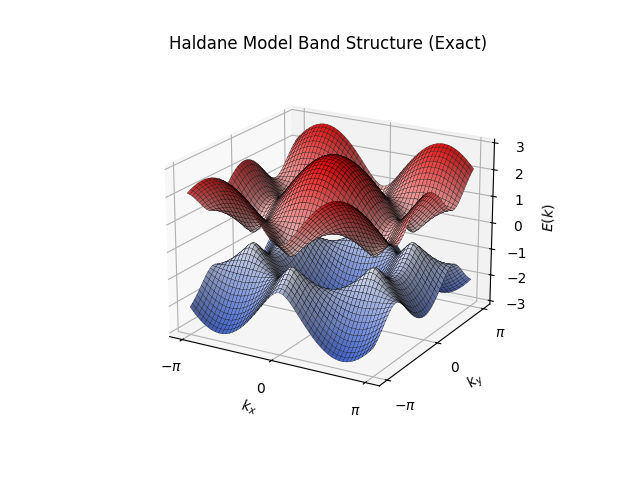
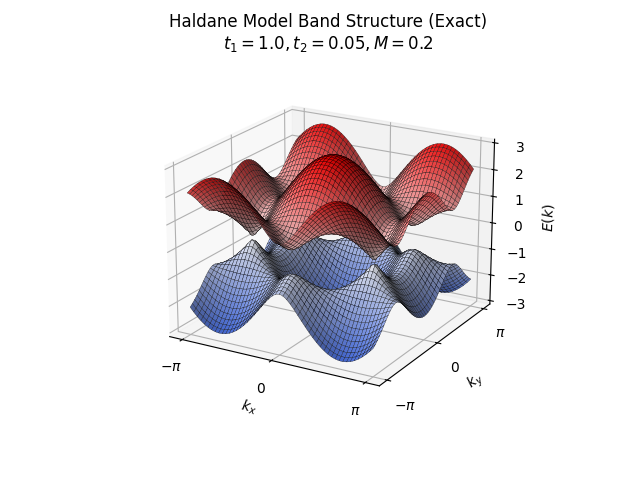
Added better plots with a NNN hopping

Changed region(s): [[0.3438, 0.3438, 0.7188, 0.6875], [0.25, 0.0312, 0.7812, 0.125], [0.4688, 0.3125, 0.5, 0.3438]]

diff --git a/scripts/haldane-model/band_structure_vqe_simulated_noisy.py b/scripts/haldane-model/band_structure_vqe_simulated_noisy.py
@@ -5,10 +5,10 @@ from matplotlib.colors import TwoSlopeNorm, LinearSegmentedColormap
 import os
 from qiskit_ibm_runtime.fake_provider import FakeSherbrooke
 
-t1, t2, M = 1.0, 0.0, 0.2
+t1, t2, M = 1.0, 0.05, 0.2
 a_vecs = [np.array([0.0, -1.0]), np.array([np.sqrt(3)/2, 0.5]), np.array([-np.sqrt(3)/2, 0.5])]
 b_vecs = [a_vecs[1]-a_vecs[2], a_vecs[2]-a_vecs[0], a_vecs[0]-a_vecs[1]]
-samples = 10
+samples = 25
 backend = FakeSherbrooke()
 
 data = band_structure_vqe(t1, t2, M, a_vecs, b_vecs, samples, backend)
@@ -38,7 +38,7 @@ ax.set_yticklabels([r'$-\pi$', r'$0$', r'$\pi$'])
 ax.set_xlabel('$k_x$')
 ax.set_ylabel('$k_y$')
 ax.set_zlabel('$E(k)$')
-ax.set_title("Haldane Model Band Structure (VQE, Qiskit Aer Noisy, $"+str(samples)+"^2$ samples)")
+ax.set_title("Haldane Model Band Structure (VQE, Qiskit Aer Noisy, $"+str(samples)+"^2$ samples)\n$t_1="+str(t1)+", t_2="+str(t2)+", M="+str(M)+"$")
 ax.view_init(elev=20)
 
 file_path = os.path.join(os.getcwd(), "..", "..", "plots/haldane-model/band-structure/simulated-noisy-"+str(samples)+"-samples-3d.png")
@@ -58,7 +58,7 @@ ax[1].set_title("Lower Band: $E_-(k)$")
 ax[1].set_xlabel("$k_x$")
 ax[1].set_ylabel("$k_y$")
 
-fig.suptitle("Haldane Model Band Structure (VQE, Qiskit Aer Noisy, $"+str(samples)+"^2$ samples)", fontsize=16)
+fig.suptitle("Haldane Model Band Structure (VQE, Qiskit Aer Noisy, $"+str(samples)+"^2$ samples)\n$t_1="+str(t1)+", t_2="+str(t2)+", M="+str(M)+"$", fontsize=16)
 
 plt.tight_layout()
 file_path = os.path.join(os.getcwd(), "..", "..", "plots/haldane-model/band-structure/simulated-noisy-"+str(samples)+"-samples-heatmap.png")

diff --git a/scripts/haldane-model/band_structure_vqe_simulated_ideal.py b/scripts/haldane-model/band_structure_vqe_simulated_ideal.py
@@ -4,10 +4,10 @@ import matplotlib.pyplot as plt
 from matplotlib.colors import TwoSlopeNorm, LinearSegmentedColormap
 import os
 
-t1, t2, M = 1.0, 0.0, 0.2
+t1, t2, M = 1.0, 0.05, 0.2
 a_vecs = [np.array([0.0, -1.0]), np.array([np.sqrt(3)/2, 0.5]), np.array([-np.sqrt(3)/2, 0.5])]
 b_vecs = [a_vecs[1]-a_vecs[2], a_vecs[2]-a_vecs[0], a_vecs[0]-a_vecs[1]]
-samples = 10
+samples = 100
 
 data = band_structure_vqe(t1, t2, M, a_vecs, b_vecs, samples)
 
@@ -36,7 +36,7 @@ ax.set_yticklabels([r'$-\pi$', r'$0$', r'$\pi$'])
 ax.set_xlabel('$k_x$')
 ax.set_ylabel('$k_y$')
 ax.set_zlabel('$E(k)$')
-ax.set_title("Haldane Model Band Structure (VQE, Qiskit Aer Ideal, $"+str(samples)+"^2$ samples)")
+ax.set_title("Haldane Model Band Structure (VQE, Qiskit Aer Ideal, $"+str(samples)+"^2$ samples)\n$t_1="+str(t1)+", t_2="+str(t2)+", M="+str(M)+"$")
 ax.view_init(elev=20)
 
 file_path = os.path.join(os.getcwd(), "..", "..", "plots/haldane-model/band-structure/simulated-ideal-"+str(samples)+"-samples-3d.png")
@@ -56,7 +56,7 @@ ax[1].set_title("Lower Band: $E_-(k)$")
 ax[1].set_xlabel("$k_x$")
 ax[1].set_ylabel("$k_y$")
 
-fig.suptitle("Haldane Model Band Structure (VQE, Qiskit Aer Ideal, $"+str(samples)+"^2$ samples)", fontsize=16)
+fig.suptitle("Haldane Model Band Structure (VQE, Qiskit Aer Ideal, $"+str(samples)+"^2$ samples)\n$t_1="+str(t1)+", t_2="+str(t2)+", M="+str(M)+"$", fontsize=16)
 
 plt.tight_layout()
 file_path = os.path.join(os.getcwd(), "..", "..", "plots/haldane-model/band-structure/simulated-ideal-"+str(samples)+"-samples-heatmap.png")

diff --git a/scripts/haldane-model/band_structure_exact.py b/scripts/haldane-model/band_structure_exact.py
@@ -4,7 +4,7 @@ import matplotlib.pyplot as plt
 from matplotlib.colors import TwoSlopeNorm, LinearSegmentedColormap
 import os
 
-t1, t2, M = 1.0, 0.0, 0.2
+t1, t2, M = 1.0, 0.05, 0.2
 a_vecs = [np.array([0.0, -1.0]), np.array([np.sqrt(3)/2, 0.5]), np.array([-np.sqrt(3)/2, 0.5])]
 b_vecs = [a_vecs[1]-a_vecs[2], a_vecs[2]-a_vecs[0], a_vecs[0]-a_vecs[1]]
 samples = 1000
@@ -36,7 +36,7 @@ ax.set_yticklabels([r'$-\pi$', r'$0$', r'$\pi$'])
 ax.set_xlabel('$k_x$')
 ax.set_ylabel('$k_y$')
 ax.set_zlabel('$E(k)$')
-ax.set_title("Haldane Model Band Structure (Exact)")
+ax.set_title("Haldane Model Band Structure (Exact)\n$t_1="+str(t1)+", t_2="+str(t2)+", M="+str(M)+"$")
 ax.view_init(elev=20)
 
 file_path = os.path.join(os.getcwd(), "..", "..", "plots/haldane-model/band-structure/exact-3d.png")
@@ -56,7 +56,7 @@ ax[1].set_title("Lower Band: $E_-(k)$")
 ax[1].set_xlabel("$k_x$")
 ax[1].set_ylabel("$k_y$")
 
-fig.suptitle("Haldane Model Band Structure (Exact)", fontsize=16)
+fig.suptitle("Haldane Model Band Structure (Exact)\n$t_1="+str(t1)+", t_2="+str(t2)+", M="+str(M)+"$", fontsize=16)
 
 plt.tight_layout()
 file_path = os.path.join(os.getcwd(), "..", "..", "plots/haldane-model/band-structure/exact-heatmap.png")
